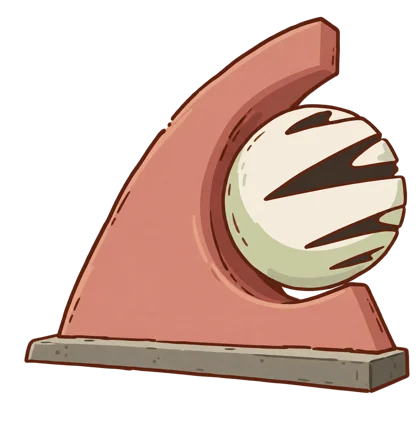
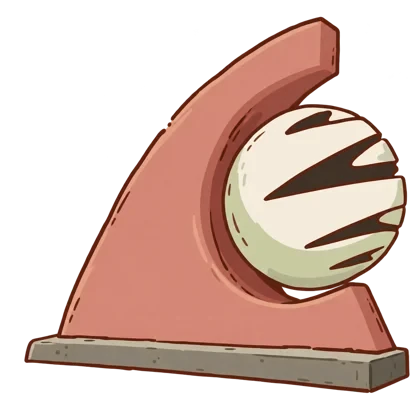
fix gnomon

diff --git a/hillside.js b/hillside.js
@@ -7,7 +7,7 @@ const A = 'assets/mvp/', P = A + 'props/', E = A + 'environment/', H_ = 'assets/
 const ART = {
   cloudLong: [E + 'atmosphere/cloud-long.webp', 1000, 181], cloudPuff: [E + 'atmosphere/cloud-puff.webp', 1000, 358], cloudWisp: [E + 'atmosphere/cloud-wisp.webp', 1000, 159],
   tower: [E + 'atmosphere/morganton-water-tower.webp', 587, 1000],
-  watts: [H_ + 'watts.webp', 640, 394], barn: [H_ + 'morganton-barn.webp', 700, 345], sphere: [H_ + 'sphere-monument.webp', 420, 425], tetra: [H_ + 'tetragranny.webp', 420, 411],
+  watts: [H_ + 'watts.webp', 640, 394], barn: [H_ + 'morganton-barn.webp', 700, 345], sphere: [H_ + 'sphere-monument.webp', 420, 394], tetra: [H_ + 'tetragranny.webp', 420, 411],
   gate: [H_ + 'fruit-circuit-gate.webp', 420, 345], pinwheel: [H_ + 'pixel-pinwheel.webp', 388, 420], pump: [H_ + 'drip-irrigation-pump.webp', 420, 373],
   crate: [H_ + 'harvest-crate.webp', 420, 238], solar: [H_ + 'leaf-solar-charger.webp', 420, 407], drawers: [H_ + 'component-drawers.webp', 420, 371],
   spool: [H_ + 'vine-cable-spool.webp', 420, 249], breadboard: [H_ + 'toast-breadboard.webp', 420, 331], battery: [H_ + 'bubble-tea-battery.webp', 405, 420],
@@ -89,27 +89,35 @@ const LAYOUTS = {
         { on: 'desk', a: 'controller', dx: -80, w: 105 }, { on: 'desk', a: 'printer', dx: 70, w: 92 },
         { a: 'bite', x: 1265, w: 195, ground: 3505 }, { a: 'rover', x: 820, w: 120, ground: 3622, id: 'rover', drive: 420 } ] },
 
-      { id: 'quiet', strip: 'middle-hill-left', crest: 3900, span: 1.2, pathW: 120, via: [[600, 3950], [700, 4040]], items: [
-        { a: 'compost', x: 1230, w: 130, sink: 34 }, { a: 'crate', x: 190, w: 130, sink: 40 } ] },
-      { id: 'info', strip: 'near-bank', crest: 4030, span: 1.3, pathW: 130,
-        clearing: { copy: 'details', x: 200, y: 4140, w: 1040, h: 648, in: .5, out: .5 }, items: [
-        { a: 'printer', x: 1340, w: 120, ground: 4330 }, { a: 'plant', x: -150, top: 4380, h: 420 } ] },
+      { id: 'fieldBack', strip: 'middle-hill-left', crest: 3900, span: 1.2, pathW: 114, via: [[600, 3950], [760, 4060]], items: [
+        { a: 'pinwheel', x: 1240, w: 80, sink: 22, cls: 'sway slow' } ] },
+      { id: 'field', strip: 'near-bank', crest: 4050, span: 1.25, pathW: 116, via: [[900, 4150]],
+        clearing: { copy: 'data', x: 800, y: 4250, w: 500, h: 400, in: .2, out: .5 }, items: [
+        { a: 'bed', kind: 'trodden', x: 360, ground: 4300, w: 560, h: 90 },
+        { a: 'crate', x: 170, w: 150, ground: 4300 }, { a: 'compost', x: 360, w: 150, ground: 4300 },
+        { a: 'printer', x: 545, w: 125, ground: 4295 } ] },
 
-      { id: 'shedBack', strip: 'middle-hill-left', crest: 5080, span: 1.2, pathW: 135, via: [[700, 5120]], items: [
+      { id: 'quiet', strip: 'middle-hill-left', crest: 4900, span: 1.2, pathW: 120, via: [[600, 4950], [700, 5040]], items: [
+        { a: 'solar', x: 1230, w: 115, sink: 30 }, { a: 'spool', x: 190, w: 125, sink: 34 } ] },
+      { id: 'info', strip: 'near-bank', crest: 5030, span: 1.3, pathW: 130,
+        clearing: { copy: 'details', x: 200, y: 5140, w: 1040, h: 648, in: .5, out: .5 }, items: [
+        { a: 'printer', x: 1340, w: 120, ground: 5330 }, { a: 'plant', x: -150, top: 5380, h: 420 } ] },
+
+      { id: 'shedBack', strip: 'middle-hill-left', crest: 6080, span: 1.2, pathW: 135, via: [[700, 6120]], items: [
         { a: 'solar', x: 1230, w: 110, sink: 30 }, { a: 'spool', x: 200, w: 120, sink: 34 } ] },
-      { id: 'shed', strip: 'near-bank', crest: 5210, span: 1.3, pathW: 140,
-        clearing: { copy: 'sponsors', x: 420, y: 5330, w: 600, h: 300, in: .5, out: .5 }, items: [
-        { a: 'drawers', x: 140, w: 120, ground: 5470 }, { a: 'battery', x: 1300, w: 70, ground: 5440 }, { a: 'crate', x: 1310, w: 130, ground: 5600 } ] },
+      { id: 'shed', strip: 'near-bank', crest: 6210, span: 1.3, pathW: 140,
+        clearing: { copy: 'sponsors', x: 420, y: 6330, w: 600, h: 300, in: .5, out: .5 }, items: [
+        { a: 'drawers', x: 140, w: 120, ground: 6470 }, { a: 'battery', x: 1300, w: 70, ground: 6440 }, { a: 'crate', x: 1310, w: 130, ground: 6600 } ] },
 
-      { id: 'gatherBack', strip: 'middle-hill-right', crest: 5800, span: 1.2, pathW: 140, via: [[720, 5830]], items: [
+      { id: 'gatherBack', strip: 'middle-hill-right', crest: 6800, span: 1.2, pathW: 140, via: [[720, 6830]], items: [
         { a: 'crate', x: 250, w: 140, sink: 40 }, { a: 'pinwheel', x: 1190, w: 84, sink: 24, cls: 'sway slow' } ] },
-      { id: 'gather', strip: 'near-bank', crest: 5930, span: 1.3, flip: true, pathW: 150,
-        clearing: { copy: 'finale', x: 430, y: 6250, w: 580, h: 202, in: .5, out: .5 }, items: [
-        { a: 'bed', kind: 'trodden', x: 740, ground: 6160, w: 1020, h: 110 },
-        { a: 'bench', x: 720, w: 400, ground: 6150, id: 'table' }, { on: 'table', a: 'invention', dx: 0, w: 200 },
-        { a: 'bit', x: 440, w: 170, ground: 6180 }, { a: 'amp', x: 1000, w: 178, ground: 6190 }, { a: 'bite', x: 1185, w: 165, ground: 6175 } ] },
+      { id: 'gather', strip: 'near-bank', crest: 6930, span: 1.3, flip: true, pathW: 150,
+        clearing: { copy: 'finale', x: 430, y: 7250, w: 580, h: 202, in: .5, out: .5 }, items: [
+        { a: 'bed', kind: 'trodden', x: 740, ground: 7160, w: 1020, h: 110 },
+        { a: 'bench', x: 720, w: 400, ground: 7150, id: 'table' }, { on: 'table', a: 'invention', dx: 0, w: 200 },
+        { a: 'bit', x: 440, w: 170, ground: 7180 }, { a: 'amp', x: 1000, w: 178, ground: 7190 }, { a: 'bite', x: 1185, w: 165, ground: 7175 } ] },
 
-      { id: 'end', strip: 'front-bank', crest: 6610, span: 1.3, pathW: 160, sign: { copy: 'footer', x: 400, w: 640, ground: 6890 }, items: [] },
+      { id: 'end', strip: 'front-bank', crest: 7610, span: 1.3, pathW: 160, sign: { copy: 'footer', x: 400, w: 640, ground: 7890 }, items: [] },
     ],
   },
   tall: {
@@ -146,26 +154,33 @@ const LAYOUTS = {
         { a: 'desk', x: 455, w: 230, sink: 70, id: 'desk' }, { on: 'desk', a: 'controller', dx: -45, w: 74 },
         { a: 'bite', x: 190, w: 140, sink: 80 }, { a: 'rover', x: 90, w: 90, ground: 3958, id: 'rover', drive: 360 } ] },
 
-      { id: 'quiet', strip: 'middle-hill-left', crest: 4820, span: 2, pathW: 100, via: [[260, 4860], [300, 4940]], items: [
-        { a: 'notice', x: 90, w: 130, sink: 36 }, { a: 'compost', x: 500, w: 92, sink: 24 } ] },
-      { id: 'info', strip: 'near-bank', crest: 4960, span: 2.1, pathW: 110,
-        clearing: { copy: 'details', x: 40, y: 5070, w: 520, h: 1280, in: .5, out: .5 }, items: [] },
+      { id: 'fieldBack', strip: 'middle-hill-left', crest: 4820, span: 2, pathW: 94, via: [[300, 4870], [330, 4960]], items: [
+        { a: 'pinwheel', x: 520, w: 56, sink: 14, cls: 'sway slow' } ] },
+      { id: 'field', strip: 'near-bank', crest: 4960, span: 2.1, pathW: 96, via: [[320, 5060]],
+        clearing: { copy: 'data', x: 50, y: 5180, w: 500, h: 560, in: .55, out: .5 }, items: [
+        { a: 'bed', kind: 'trodden', x: 150, sink: 56, w: 270, h: 56 },
+        { a: 'crate', x: 85, w: 105, sink: 30 }, { a: 'compost', x: 200, w: 95, sink: 34 }, { a: 'printer', x: 505, w: 90, sink: 30 } ] },
 
-      { id: 'shedBack', strip: 'middle-hill-left', crest: 6520, span: 2, pathW: 115, via: [[300, 6560]], items: [
+      { id: 'quiet', strip: 'middle-hill-left', crest: 5940, span: 2, pathW: 100, via: [[260, 5980], [300, 6060]], items: [
+        { a: 'notice', x: 90, w: 130, sink: 36 }, { a: 'solar', x: 500, w: 80, sink: 22 } ] },
+      { id: 'info', strip: 'near-bank', crest: 6080, span: 2.1, pathW: 110,
+        clearing: { copy: 'details', x: 40, y: 6190, w: 520, h: 1280, in: .5, out: .5 }, items: [] },
+
+      { id: 'shedBack', strip: 'middle-hill-left', crest: 7640, span: 2, pathW: 115, via: [[300, 7680]], items: [
         { a: 'spool', x: 90, w: 90, sink: 26 }, { a: 'solar', x: 520, w: 80, sink: 22 } ] },
-      { id: 'shed', strip: 'near-bank', crest: 6640, span: 2.1, pathW: 120, via: [[300, 6700]],
-        clearing: { copy: 'sponsors', x: 50, y: 6800, w: 500, h: 520, in: .5, out: .5 }, items: [
-        { a: 'drawers', x: 90, w: 86, ground: 6760 }, { a: 'battery', x: 520, w: 50, ground: 6750 } ] },
+      { id: 'shed', strip: 'near-bank', crest: 7760, span: 2.1, pathW: 120, via: [[300, 7820]],
+        clearing: { copy: 'sponsors', x: 50, y: 7920, w: 500, h: 520, in: .5, out: .5 }, items: [
+        { a: 'drawers', x: 90, w: 86, ground: 7880 }, { a: 'battery', x: 520, w: 50, ground: 7870 } ] },
 
-      { id: 'gatherBack', strip: 'middle-hill-right', crest: 7420, span: 2, pathW: 120, via: [[300, 7460]], items: [
+      { id: 'gatherBack', strip: 'middle-hill-right', crest: 8540, span: 2, pathW: 120, via: [[300, 8580]], items: [
         { a: 'crate', x: 90, w: 100, sink: 30 } ] },
-      { id: 'gather', strip: 'near-bank', crest: 7540, span: 2.1, flip: true, pathW: 130,
-        clearing: { copy: 'finale', x: 50, y: 7860, w: 500, h: 410, in: .5, out: .5 }, items: [
-        { a: 'bed', kind: 'trodden', x: 300, ground: 7750, w: 590, h: 70 },
-        { a: 'bench', x: 300, w: 270, ground: 7730, id: 'table' }, { on: 'table', a: 'invention', dx: 0, w: 145 },
-        { a: 'bit', x: 85, w: 118, ground: 7750 }, { a: 'amp', x: 515, w: 120, ground: 7760 }, { a: 'bite', x: 300, w: 104, ground: 7810 } ] },
+      { id: 'gather', strip: 'near-bank', crest: 8660, span: 2.1, flip: true, pathW: 130,
+        clearing: { copy: 'finale', x: 50, y: 8980, w: 500, h: 410, in: .5, out: .5 }, items: [
+        { a: 'bed', kind: 'trodden', x: 300, ground: 8870, w: 590, h: 70 },
+        { a: 'bench', x: 300, w: 270, ground: 8850, id: 'table' }, { on: 'table', a: 'invention', dx: 0, w: 145 },
+        { a: 'bit', x: 85, w: 118, ground: 8870 }, { a: 'amp', x: 515, w: 120, ground: 8880 }, { a: 'bite', x: 300, w: 104, ground: 8930 } ] },
 
-      { id: 'end', strip: 'front-bank', crest: 8460, span: 2.1, pathW: 140, sign: { copy: 'footer', x: 50, w: 500, ground: 8860 }, items: [] },
+      { id: 'end', strip: 'front-bank', crest: 9580, span: 2.1, pathW: 140, sign: { copy: 'footer', x: 50, w: 500, ground: 9980 }, items: [] },
     ],
   },
 };
@@ -505,30 +520,13 @@ function updateDepth() {
 const header = document.querySelector('.site-header');
 addEventListener('scroll', () => { if (!ticking) { ticking = true; requestAnimationFrame(updateDepth); } }, { passive: true });
 
-// Pause control for the ambient loops and depth: starts paused when the OS asks for reduced motion.
-const motionButton = document.querySelector('.motion-toggle');
-let paused = null;
-const motionOff = () => paused ?? reduceMotion.matches;
+// Ambient loops and depth stop when the OS asks for reduced motion.
+const motionOff = () => reduceMotion.matches;
 function syncMotion() {
-  const off = motionOff();
-  document.documentElement.classList.toggle('motion-paused', off);
-  motionButton.setAttribute('aria-pressed', off);
-  motionButton.textContent = off ? 'Play motion' : 'Pause motion';
+  document.documentElement.classList.toggle('motion-paused', motionOff());
   updateDepth();
 }
-motionButton.addEventListener('click', () => { paused = !motionOff(); syncMotion(); });
 reduceMotion.addEventListener('change', syncMotion);
-
-// Interactions. State is kept as classes on the svg root, so it survives every re-layout.
-const status = document.getElementById('scene-status');
-const replay = (cls, ms) => { svg.classList.remove(cls); void svg.getBoundingClientRect(); svg.classList.add(cls); setTimeout(() => svg.classList.remove(cls), ms); };
-const ACTIONS = {
-  water: btn => { svg.classList.add('is-watered'); replay('is-watering', 2400); btn.setAttribute('aria-pressed', 'true'); return 'Bit waters the seedling. It sprouts.'; },
-  power: btn => { const on = svg.classList.toggle('is-powered'); btn.setAttribute('aria-pressed', on); return on ? 'Amp’s breadboard lights up.' : 'The breadboard is switched off.'; },
-  drive: () => { replay('is-driving', 3300); return 'Bite’s snack rover drives down the test lane and back.'; },
-  invent: btn => { const on = svg.classList.toggle('is-invented'); btn.setAttribute('aria-pressed', on); return on ? 'Three little lights. One shared idea.' : 'The invention is switched off.'; },
-};
-document.querySelectorAll('[data-action]').forEach(btn => btn.addEventListener('click', () => { status.textContent = ACTIONS[btn.dataset.action](btn); }));
 
 // Re-lay out on resize, and whenever a copy block changes height (an FAQ opens, text zoom, fonts load).
 let pending;
@@ -555,4 +553,4 @@ const watch = new ResizeObserver(entries => {
 });
 document.querySelectorAll('[data-copy]').forEach(el => watch.observe(el));
 safeRender();
-if (world.classList.contains('is-laid-out')) { motionButton.hidden = false; syncMotion(); }
+if (world.classList.contains('is-laid-out')) syncMotion();

diff --git a/index.html b/index.html
@@ -13,7 +13,7 @@
   <a class="skip-link" href="#main">Skip to content</a>
   <header class="site-header">
     <a class="brand" href="#top" aria-label="SMathHacks 2027 home"><img src="assets/logo/smathhacks-full-color.svg" alt="SMathHacks 2027, Bits and Bites" width="1772" height="884"></a>
-    <nav aria-label="Primary navigation"><a href="#about">About</a><a href="#details">Details</a><a href="#schedule">Schedule</a><a href="#faq">FAQ</a><a class="nav-roomy" href="#sponsors">Sponsors</a></nav>
+    <nav aria-label="Primary navigation"><a href="#tracks">Tracks</a><a href="#details">Details</a><a href="#schedule">Schedule</a><a href="#faq">FAQ</a><a class="nav-roomy" href="#sponsors">Sponsors</a></nav>
     <div class="header-status" data-register="header"><a href="#updates">Registration soon</a></div>
   </header>
 
@@ -24,40 +24,62 @@
   <main id="main">
 
     <section class="copy hero-copy" id="top" data-copy="hero" aria-labelledby="event-title">
-      <p class="eyebrow">A student hackathon</p>
+      <p class="eyebrow">A 36-hour hackathon for students, by students</p>
       <h1 class="sr-only" id="event-title">SMathHacks 2027: Bits &amp; Bites</h1>
       <img class="hero-logo" src="assets/logo/smathhacks-full-color.svg" alt="" width="1772" height="884">
       <p class="hero-line">Build, experiment,<br>and share what you make.</p>
-      <p class="event-timing"><span>2027</span><span data-fact="dates">Date to be announced</span></p>
+      <p class="event-timing" data-fact="dates">March 13–14, 2027</p>
       <div class="hero-actions">
-        <a class="primary-link" href="#about">Follow the path <span aria-hidden="true">↓</span></a>
         <div class="registration-state" data-register="hero">Registration details coming soon</div>
       </div>
-      <button class="motion-toggle" type="button" aria-pressed="false" hidden>Pause motion</button>
     </section>
 
-    <section class="copy" id="about" data-copy="bit" aria-labelledby="about-title">
-      <p class="eyebrow">Bit’s growing corner</p>
-      <h2 id="about-title">Bring your curiosity.</h2>
-      <p>Start with a question. Try something unfamiliar. SMathHacks is a student hackathon where ideas become experiments, and experiments become something you can share.</p>
-      <div class="character-note"><h3>Bit, the aspirational apple</h3><p>Helpful and technically minded. Always thinking about how technology can help food and agriculture.</p></div>
-      <button class="scene-control" type="button" data-action="water" aria-pressed="false">Water Bit’s seedling <span aria-hidden="true">↗</span></button>
+    <section class="copy" id="tracks" data-copy="bit" aria-labelledby="ai-title">
+      <p class="eyebrow">Track 1 · Bit’s growing corner</p>
+      <h2 id="ai-title">AI &amp; Machine Learning</h2>
+      <p>For projects where a model learns from data to make a prediction, classification, recommendation, or other decision. Projects might use computer vision, natural language processing, forecasting, or another machine-learning method. The model should be doing meaningful work in the final project, not added as an extra feature.</p>
+      <h3 class="examples-title">Example projects</h3>
+      <ul class="track-examples">
+        <li>A vision model that measures untouched food on cafeteria trays to reveal recurring waste patterns</li>
+        <li>Predict likely harvest timing using planting dates, weather conditions, and growing degree days</li>
+        <li>Recommend ingredient swaps based on what an ingredient actually does in a recipe, such as binding, acidity, moisture, or leavening</li>
+      </ul>
     </section>
 
-    <section class="copy" id="workshop" data-copy="amp" aria-labelledby="amp-title">
-      <p class="eyebrow">Amp’s workshop terrace</p>
-      <h2 id="amp-title">Ideas you can hold.</h2>
-      <p>A circuit, a tool, a little trial and error. Amp, the daring dragonfruit, loves tinkering with hardware and turning a thought into something tangible.</p>
-      <p>Start small. Connect the pieces. See what happens when you flip the switch.</p>
-      <button class="scene-control" type="button" data-action="power" aria-pressed="false">Power up the breadboard <span aria-hidden="true">↗</span></button>
+    <section class="copy" id="hardware" data-copy="amp" aria-labelledby="amp-title">
+      <p class="eyebrow">Track 2 · Amp’s workshop terrace</p>
+      <h2 id="amp-title">Hardware</h2>
+      <p>Solve a food or agriculture problem with a physical device. Teams might use Arduino or Raspberry Pi boards, sensors, motors, cameras, or other electronic and mechanical components. The device should be the center of the project, even if it also connects to a dashboard or uses a model behind the scenes. Kitchen tools, farm systems, storage, and transportation projects can all fit here.</p>
+      <h3 class="examples-title">Example projects</h3>
+      <ul class="track-examples">
+        <li>A fruit-ripeness tester</li>
+        <li>A produce box that automatically vents itself when temperature and humidity raise the risk of spoilage</li>
+        <li>A sensor probe that signals when a compost pile needs water, airflow, or turning</li>
+      </ul>
     </section>
 
-    <section class="copy" id="play" data-copy="bite" aria-labelledby="bite-title">
-      <p class="eyebrow">Bite’s play patch</p>
-      <h2 id="bite-title">Make room for play.</h2>
-      <p>Functional, silly, or a bit of both. Bite, the curious cupcake, makes games and playful projects that start with “what if?”</p>
-      <p>A sketch is a start. A test drive is an experiment. Even the smallest one can take you somewhere unexpected.</p>
-      <button class="scene-control" type="button" data-action="drive">Test-drive the rover <span aria-hidden="true">↗</span></button>
+    <section class="copy" id="game-design" data-copy="bite" aria-labelledby="bite-title">
+      <p class="eyebrow">Track 3 · Bite’s play patch</p>
+      <h2 id="bite-title">Game Design</h2>
+      <p>For projects where the main experience is a game. Build around food, farming, sustainability, nutrition, access, or culture, but let gameplay drive the project rather than a webpage with points attached. Focus on the choices a player makes based on the rules of the world, and what changes as the game unfolds. Browser, mobile, multiplayer, and simulation games all fit here.</p>
+      <h3 class="examples-title">Example projects</h3>
+      <ul class="track-examples">
+        <li>A season-by-season strategy game where crop rotation changes soil, pest pressure, and profit</li>
+        <li>A restaurant puzzle where players turn a shrinking pantry into dishes before ingredients spoil</li>
+        <li>A multiplayer supply-chain game where farms, stores, and shoppers react to shortages and surprise events</li>
+      </ul>
+    </section>
+
+    <section class="copy" id="data-science" data-copy="data" aria-labelledby="data-title">
+      <p class="eyebrow">Track 4 · The harvest ledger</p>
+      <h2 id="data-title">Data Science</h2>
+      <p>Use food or agriculture data to uncover patterns and turn them into something useful. The focus is on understanding what the data shows rather than predicting a new outcome. If the main feature predicts or classifies new inputs, it belongs in AI &amp; Machine Learning.</p>
+      <h3 class="examples-title">Example projects</h3>
+      <ul class="track-examples">
+        <li>Map which cafeteria foods are most commonly left behind and when food waste spikes during lunch</li>
+        <li>Compare price, water use, emissions, and seasonality across possible ingredient substitutions</li>
+        <li>Visualize how distance, refrigeration, and time add cost between a farm and the grocery-store shelf</li>
+      </ul>
     </section>
 
     <section class="copy info-copy" id="details" data-copy="details" aria-labelledby="details-title">
@@ -65,7 +87,7 @@
       <h2 id="details-title">Plan your visit.</h2>
       <p>We’re putting the pieces together. Confirmed details will live right here.</p>
       <dl class="facts">
-        <div><dt>Date</dt><dd data-fact="dates">To be announced</dd></div>
+        <div><dt>Date</dt><dd data-fact="dates">March 13–14, 2027</dd></div>
         <div><dt>Venue</dt><dd data-fact="venue">To be announced</dd></div>
         <div><dt>Eligibility</dt><dd data-fact="eligibility">To be announced</dd></div>
         <div><dt>Cost</dt><dd data-fact="cost">To be announced</dd></div>
@@ -105,10 +127,8 @@
       <h2 id="finale-title">Make something together.</h2>
       <p>One question. A few curious minds. A whole lot of possibility.</p>
       <div class="final-action" data-register="final"><p class="registration-state"><strong>See you in 2027.</strong> Registration details are on their way.</p></div>
-      <button class="scene-control" type="button" data-action="invent" aria-pressed="false">Switch on the invention <span aria-hidden="true">↗</span></button>
     </section>
 
-    <span class="sr-only" role="status" id="scene-status"></span>
   </main>
 
   <!-- The notice board at the end of the path, left blank for sponsor logos. -->

diff --git a/hillside.css b/hillside.css
@@ -37,24 +37,17 @@ a:focus-visible,button:focus-visible{outline:3px solid var(--forest);outline-off
 .copy{position:absolute;z-index:2}
 .world:not(.is-laid-out) .copy{position:relative;margin:0 auto;padding:110px 24px 40px;max-width:560px}
 /* Scene buttons only make sense when the hillside is drawn. */
-.world:not(.is-laid-out) [data-action]{display:none}
 [id]{scroll-margin-top:130px}
 
 .hero-logo{display:block;width:min(360px,100%);height:auto;margin:0 0 20px -4px}
 .hero-line{font-size:clamp(21px,1.8vw,26px);line-height:1.35;letter-spacing:-.02em;font-weight:500}
-.event-timing{display:flex;gap:14px;margin-top:16px;font-size:14px}
-.event-timing>span:first-child{font-weight:600;padding-right:14px;border-right:1px solid var(--rule)}
+.event-timing{margin-top:16px;font-size:14px}
 .hero-actions{display:flex;align-items:center;flex-wrap:wrap;gap:12px 20px;margin-top:22px}
-.primary-link{display:inline-flex;align-items:center;gap:28px;min-height:48px;background:var(--forest);color:var(--cream);padding:10px 22px;border-radius:6px;font-size:15px;font-weight:500;text-decoration:none;transition:transform .2s cubic-bezier(.3,.7,.4,1),background .2s ease}
-.primary-link:hover{background:#294d30;transform:translateY(-2px)}
 /* Once a real action exists (Register / Get updates), it becomes the primary button. */
-.hero-actions:has(.action-link) .primary-link{background:transparent;color:var(--forest);box-shadow:inset 0 0 0 1.5px var(--forest)}
-.hero-actions:has(.action-link) .primary-link:hover{background:#3866411a}
 .registration-state{font-size:13px}
 .action-link{display:inline-flex;align-items:center;min-height:44px;padding:8px 18px;border-radius:6px;background:var(--forest);color:var(--cream);font-size:14px;font-weight:500;text-decoration:none}
 .header-status .action-link{min-height:38px;padding:6px 14px;font-size:13px}
 .header-status>a:not(.action-link){min-height:44px;display:flex;align-items:center;text-decoration:none}
-.motion-toggle{margin-top:18px;min-height:44px;padding:6px 14px;border:1px solid var(--rule);border-radius:6px;background:#f8f4eacc;color:var(--forest);font:500 12px 'DM Sans',sans-serif;cursor:pointer}
 .schedule-list{margin:0;padding:0;list-style:none}
 .schedule-list li{display:flex;gap:14px;padding:8px 0;border-bottom:1px solid var(--rule)}
 .updates-form{margin:18px auto 0;max-width:420px;text-align:left;font-size:14px}
@@ -64,8 +57,11 @@ a:focus-visible,button:focus-visible{outline:3px solid var(--forest);outline-off
 .form-status{margin-top:8px;min-height:1.4em}
 
 .copy>p:not(.eyebrow){max-width:46ch}
-.character-note{margin-top:20px;padding-left:16px;border-left:3px solid var(--lime)}
-.character-note p{font-size:15px;margin-top:4px}
+.examples-title{margin-top:22px;font-size:13px;font-family:'DM Sans',sans-serif;font-weight:600;letter-spacing:.08em;text-transform:uppercase;opacity:.75}
+.track-examples{margin:10px 0 0;padding:0;list-style:none;font-size:15px;max-width:52ch}
+.track-examples li{position:relative;padding:6px 0 6px 20px;border-bottom:1px solid var(--rule)}
+.track-examples li:last-child{border-bottom:0}
+.track-examples li::before{content:'';position:absolute;left:2px;top:15px;width:8px;height:8px;border-radius:50%;background:var(--lime);box-shadow:inset 0 0 0 1.5px var(--forest)}
 .scene-control{margin-top:22px;display:inline-flex;align-items:center;gap:22px;min-height:46px;padding:9px 18px;border:1.5px solid var(--forest);border-radius:6px;background:transparent;color:var(--forest);font:500 15px 'DM Sans',sans-serif;cursor:pointer;transition:background .2s ease,color .2s ease}
 .scene-control:hover,.scene-control[aria-pressed=true]{background:var(--forest);color:var(--cream)}
 
@@ -103,23 +99,12 @@ a.sponsor:hover{transform:translateY(-2px)}
 .world.is-laid-out .site-footer:empty{min-height:220px}
 .world.is-laid-out .site-footer p{font-size:15px;line-height:1.45}
 
-/* Scene state lives on the svg root, so it survives re-layout. */
+/* Interactive parts of the art, shown at rest. */
 .led{opacity:0;transition:opacity .4s ease}
-.is-powered .led{opacity:1;animation:pulse 1.6s ease-in-out infinite alternate}
-.is-powered .led:nth-of-type(2){animation-delay:.3s}
-.is-powered .led:nth-of-type(3){animation-delay:.6s}
-@keyframes pulse{from{filter:brightness(1)}to{filter:brightness(1.35)}}
 .rover-body{transition:none}
-.is-driving .rover-body{animation:drive 3.2s cubic-bezier(.45,.05,.4,1)}
-@keyframes drive{0%{transform:translateX(0)}45%,55%{transform:translateX(var(--drive))}100%{transform:translateX(0)}}
 .lamp{fill:#CDD993;transition:fill .35s ease}
-.is-invented .lamp{fill:#F6D86B}
-.is-invented .lamp-2{transition-delay:.35s}
-.is-invented .lamp-3{transition-delay:.7s}
 .glow{opacity:0;transition:opacity .5s ease 1s}
-.is-invented .glow{opacity:.55}
 .dial{transform-box:fill-box;transform-origin:50% 50%;transition:transform .9s cubic-bezier(.34,1.4,.5,1)}
-.is-invented .dial{transform:rotate(110deg)}
 
 /* Ambient life: few, slow, rooted. */
 .sway{transform-box:fill-box;transform-origin:50% 100%;animation:sway 5.5s ease-in-out infinite alternate}
@@ -129,12 +114,7 @@ a.sponsor:hover{transform:translateY(-2px)}
 @keyframes drift{from{transform:translateX(-14px)}to{transform:translateX(14px)}}
 
 .sprout{transform-box:fill-box;transform-origin:50% 100%;transform:scale(.55);transition:transform 1.4s cubic-bezier(.34,1.4,.5,1) .5s}
-.is-watered .sprout{transform:scale(1)}
 .drop{opacity:0}
-.is-watering .drop{animation:drop .9s cubic-bezier(.5,0,.9,.6) 2}
-.is-watering .drop:nth-child(2){animation-delay:.25s}
-.is-watering .drop:nth-child(3){animation-delay:.5s}
-@keyframes drop{0%{opacity:0;transform:translateY(0)}15%{opacity:1}85%{opacity:1}100%{opacity:0;transform:translateY(var(--fall))}}
 
 @media (max-width:759px){
   body{font-size:16px}
@@ -164,6 +144,5 @@ a.sponsor:hover{transform:translateY(-2px)}
   html{scroll-behavior:auto}
   .sway,.drift{animation:none}
   .sprout{transition:none}
-  .is-watering .drop,.is-powered .led,.is-driving .rover-body{animation:none}
   .lamp,.glow,.dial{transition:none}
 }
